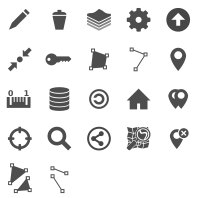
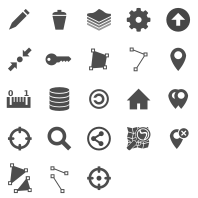
Add a blinking marker on user position on geolocate
fix #339

Changed region(s): [[0.4242, 0.8182, 0.5758, 0.9697]]

diff --git a/umap/static/umap/js/umap.controls.js b/umap/static/umap/js/umap.controls.js
@@ -826,21 +826,63 @@ L.U.LocateControl = L.Control.extend({
         position: 'topleft'
     },
 
+    onFound: function (e) {
+        this._map._geolocated_circle.setRadius(e.accuracy);
+        this._map._geolocated_circle.setLatLng(e.latlng);
+        this._map._geolocated_marker.setLatLng(e.latlng);
+        this._map.addLayer(this._map._geolocated_circle);
+        this._map.addLayer(this._map._geolocated_marker);
+    },
+
+    onError: function (e) {
+        this.ui.alert({content: L._('Unable to locate you.'), 'level': 'error'});
+    },
+
+    activate: function () {
+        this._map.locate({
+            setView: true,
+            enableHighAccuracy: true,
+            watch: true
+        });
+        this._active = true;
+    },
+
+    deactivate: function () {
+        this._map._geolocated_marker.removeFrom(this._map)
+        this._map._geolocated_circle.removeFrom(this._map)
+        this._map.stopLocate();
+        this._active = false;
+    },
+
+    toggle: function () {
+        if (!this._active) this.activate();
+        else this.deactivate();
+        L.DomUtil.classIf(this._container, "active", this._active);
+    },
+
     onAdd: function (map) {
         var container = L.DomUtil.create('div', 'leaflet-control-locate umap-control'),
             link = L.DomUtil.create('a', '', container);
         link.href = '#';
         link.title = L._('Center map on your location');
-        var fn = function () {
-            map.locate({
-                setView: true,
-                enableHighAccuracy: true
-            });
-        };
+
+        map._geolocated_circle = L.circle(map.getCenter(), {
+            radius: 10,
+            weight: 0,
+            className: "blinking"
+        });
+
+        map._geolocated_marker = L.marker(map.getCenter(), {
+            icon: L.divIcon({className: 'geolocated blinking', iconAnchor: [4, 7]}),
+        });
+
+        map.on("locationerror", this.onError, this);
+
+        map.on("locationfound", this.onFound, this);
 
         L.DomEvent
             .on(link, 'click', L.DomEvent.stop)
-            .on(link, 'click', fn, map)
+            .on(link, 'click', this.toggle, this)
             .on(link, 'dblclick', L.DomEvent.stopPropagation);
 
         return container;

diff --git a/umap/static/umap/map.css b/umap/static/umap/map.css
@@ -76,7 +76,11 @@ a.umap-control-less {
     background-position: -122px -82px;
 }
 .leaflet-control-locate a {
-    background-position: -2px -122px;
+    background-position: -1px -121px;
+}
+.leaflet-control-locate.active a {
+    background-position: -80px -161px;
+    box-shadow: 0 0 4px 0 black inset;
 }
 .leaflet-control-search a {
     background-position: -41px -121px;
@@ -1327,6 +1331,26 @@ a.add-datalayer:hover,
     width: 36px;
     height: 36px;
     line-height: 36px;
+}
+
+/* *********** */
+/* Geolocation */
+/* *********** */
+@keyframes fade {
+  from { opacity: 0.5; }
+}
+
+.blinking {
+    animation: fade 1s infinite alternate;
+}
+
+.geolocated {
+    width: 10px !important;
+    height: 10px!important;
+    background-color: #3388ff;
+    border: 1px solid white;
+    border-radius: 5px;
+    box-shadow: 1px 5px 5px black;
 }
 
 /* ****** */
